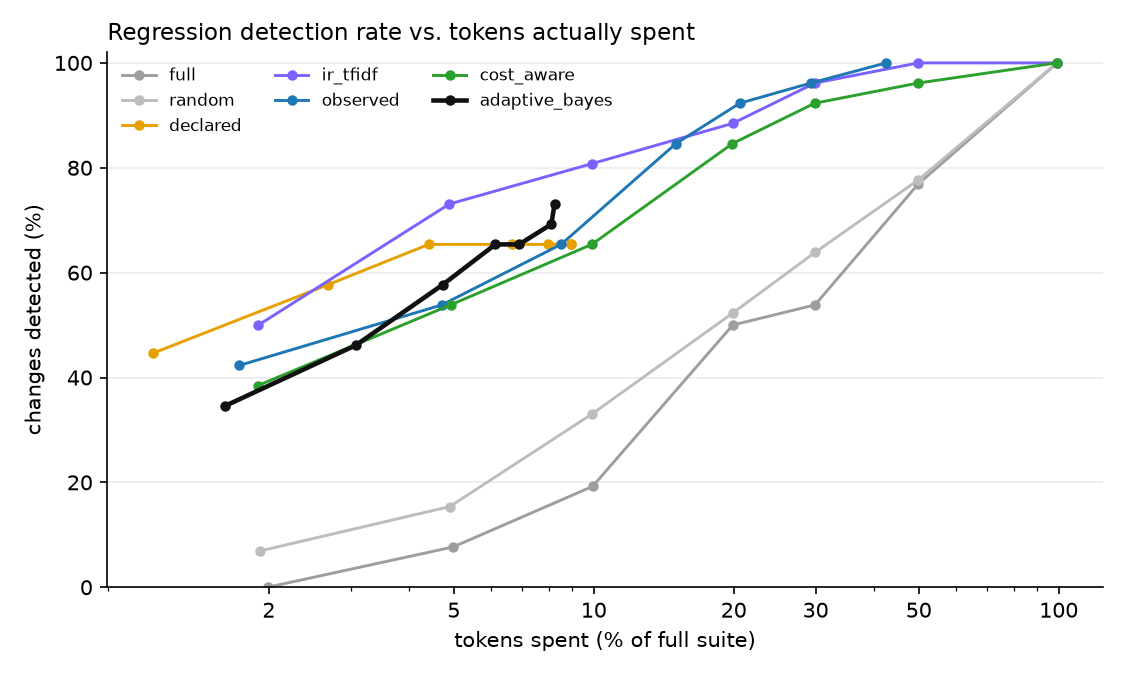
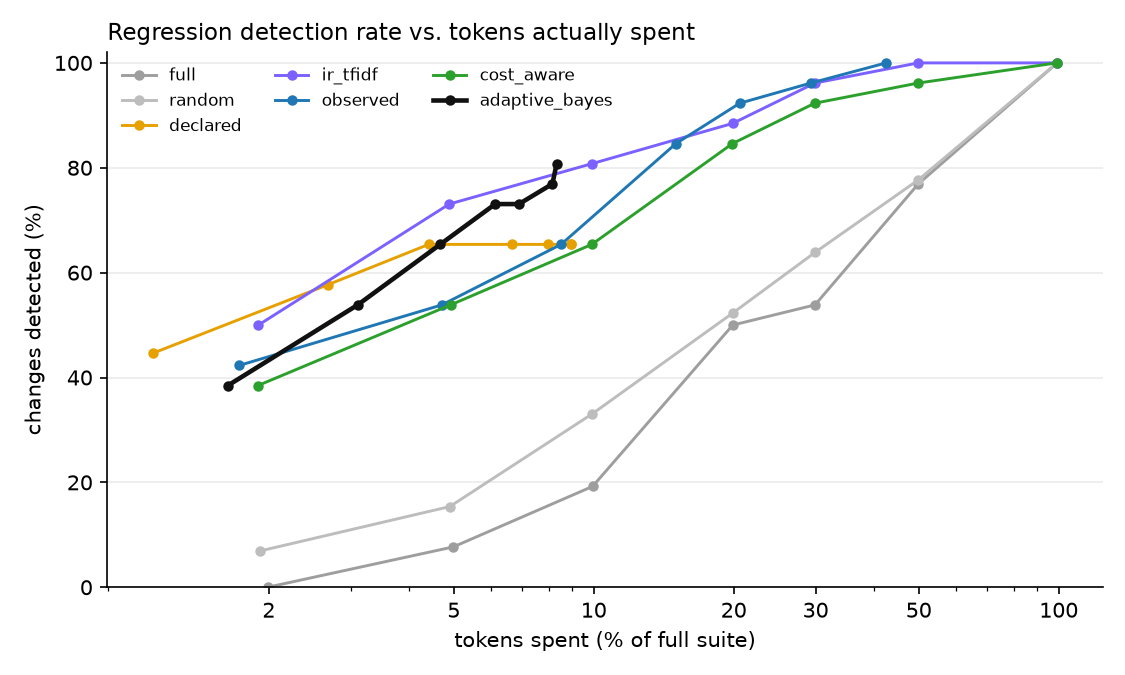
Calibration: pad kind ratios; an agent list that lost items reaches only its users
- adaptive_bayes: a kind's reveal ratio is padded toward a default for its kind
  (prior_strength changes' worth), like the test records, so one earlier change
  cannot make a whole kind look certain (agent tool lists sat at the 0.9 cap).
- changeset: when an agent's tools or skills list only loses items, the detail
  names them ("removed: tool:check_consent"); the method links the change only to
  tests that used one of them, both when choosing tests and when calibrating.
- Results at a 20% budget: 81% (Gemma) and 73% (Qwen), from 76% and 65%, at the
  same 5-6% spend; the two agent-definition changes are caught by the first
  test; still no false regression verdict. Published reports regenerated;
  README, RESEARCH_PLAN, EXPERIMENT and USER_GUIDE updated.

diff --git a/trace-eval/traceeval/selection/adaptive_bayes.py b/trace-eval/traceeval/selection/adaptive_bayes.py
@@ -6,12 +6,14 @@ In plain words
   2. For every test we estimate how likely it is to FAIL if a given component is broken ("sensitivity").
      Covering a component is weak evidence by itself, so the sensitivity is calibrated from history:
      among the tests that statically looked impacted by earlier changes of the same kind, how many
-     actually revealed the change?  That ratio is then scaled by the test's own record on earlier changes of
-     that kind that touched it: the changes it revealed over those an average impacted test would have
-     revealed.  Catching a change that broke almost everything says little; being the one test that caught a
-     subtle change says a lot.  The sensitivity is finally tilted up for tests
-     whose own text (name, request, expectations) shares vocabulary with the diff, and for tests whose
-     author declared the dependency.  How text is compared is an option (``text``): word overlap by default,
+     actually revealed the change?  A ratio learned from one or two changes stays near a default for its kind,
+     so that a single earlier change cannot make a whole kind look certain.  That ratio is then scaled by the
+     test's own record on earlier changes of that kind that touched it: the changes it revealed over those an
+     average impacted test would have revealed.  Catching a change that broke almost everything says little;
+     being the one test that caught a subtle change says a lot.  The sensitivity is finally tilted up for tests
+     whose own text (name, request, expectations) shares vocabulary with the diff, and for tests whose author
+     declared the dependency.  An agent's tool or skill list that only lost items reaches only the
+     tests that used one of them.  How text is compared is an option (``text``): word overlap by default,
      the TF-IDF similarity of the ``ir_tfidf`` strategy, or not at all (the variants registered at the end).
   3. We run the test with the best expected information per token, update the probabilities with the
      outcome, and repeat; each test runs at most once.  A test that already fails on the original app (a
@@ -65,6 +67,15 @@ def _kind_key(comp) -> str:
     return comp.kind
 
 
+def _reach(comp) -> tuple[str, ...]:
+    """The dependency ids through which a non-code component reaches a test: the items an agent's tool or skill
+    list lost, when the change set names them ("removed: tool:x"), since only the runs that used one of them can
+    notice; otherwise the component itself or its base (agent:x.tools -> agent:x)."""
+    if comp.detail.startswith("removed: "):
+        return tuple(comp.detail.split()[1:])
+    return (comp.id, comp.base)
+
+
 @register
 class AdaptiveBayes(Strategy):
     name = "adaptive_bayes"
@@ -113,7 +124,7 @@ class AdaptiveBayes(Strategy):
                     out["line"].add(t)
                 elif matches(comp, deps):
                     out["fn"].add(t)
-            elif matches(comp, deps):
+            elif any(d in deps for d in _reach(comp)):
                 out["match"].add(t)
         return out
 
@@ -154,7 +165,11 @@ class AdaptiveBayes(Strategy):
                     seen[1] += rate
         ratios = dict(DEFAULT_REVEAL)
         for k, vals in sums.items():
-            ratios[k] = max(0.01, min(0.9, sum(vals) / len(vals)))  # mean over changes, kept off 0 and 1
+            # the mean over changes, padded like the test records: a ratio learned from one or two changes stays
+            # near the default of its kind (agent.tools falls back to agent), and it is kept off 0 and 1
+            prior = DEFAULT_REVEAL.get(k, DEFAULT_REVEAL.get(k.split(".", 1)[0], 0.2))
+            mean = (sum(vals) + self.prior_strength * prior) / (len(vals) + self.prior_strength)
+            ratios[k] = max(0.01, min(0.9, mean))
         return ratios, record
 
     @staticmethod
@@ -212,10 +227,10 @@ class AdaptiveBayes(Strategy):
                 base = own("code:line", ratios["code:line"]) * max(hit)
             elif matches(comp, deps):
                 base = own("code:fn", ratios["code:fn"])
-        elif matches(comp, deps):
+        elif any(d in deps for d in _reach(comp)):
             # an agent field without training data of its own falls back to the ratio of its kind
             ratio = ratios.get(_kind_key(comp), ratios.get(comp.kind, 0.2))
-            base = own(_kind_key(comp), ratio) * max(freq[d] for d in deps if d in (comp.id, comp.base))
+            base = own(_kind_key(comp), ratio) * max(freq[d] for d in _reach(comp) if d in deps)
         if base is not None:
             return min(0.9, max(0.02, base * tilt))
         if declared:  # declared by the test's author but never observed: half the reveal ratio

diff --git a/trace-eval/traceeval/mutation/changeset.py b/trace-eval/traceeval/mutation/changeset.py
@@ -285,7 +285,14 @@ def _agent_components(rel: str, old: str, new: str) -> list[ChangedComponent]:
     for key in sorted(set(od) | set(nd)):
         if _ordered(od.get(key)) != _ordered(nd.get(key)):
             kind = "agent-prompt" if key in ("system_prompt", "description") else "agent"
-            comps.append(ChangedComponent(f"agent:{name}.{key}", kind, rel, f"{key} changed"))
+            detail = f"{key} changed"
+            if key in ("tools", "skills"):
+                # A list that only lost items affects only the runs that used one of them: name them, as the
+                # dependency ids the traces record (tool:<name>, skill:<name>).
+                old_items, new_items = set(od.get(key) or []), set(nd.get(key) or [])
+                if old_items > new_items:
+                    detail = "removed: " + " ".join(f"{key[:-1]}:{x}" for x in sorted(old_items - new_items))
+            comps.append(ChangedComponent(f"agent:{name}.{key}", kind, rel, detail))
     return comps  # empty for a comment- or format-only change
 
 

diff --git a/trace-eval/docs/RESEARCH_PLAN.md b/trace-eval/docs/RESEARCH_PLAN.md
@@ -18,14 +18,14 @@ Ciprian Păduraru · University of Bucharest · working document, 6 October 2026
   Qwen3.8-27B as a second model), 136 tests and 33 controlled changes applied as file edits (7 of them benign).
   Full-suite runs with three repetitions give the ground truth, and strategies are compared by offline replay.
 - **Results so far (§5.1).** Hand-written dependencies catch 65–71% of regressions. Trace-based selection catches
-  85–90% within a budget of 20% of the full-suite tokens. The adaptive method catches 65–76% while spending 5–6% of
+  85–90% within a budget of 20% of the full-suite tokens. The adaptive method catches 73–81% while spending 5–6% of
   those tokens, and never calls a change that breaks nothing a regression, even though Gemma fails three tests on
   the original app and the other strategies take those failures for regressions. TF-IDF over the diff is a strong
   baseline (73–81% at 5%). Change sets hold code only, so the results are the same whether or not the code is
   commented.
-- **Next.** Fold the IR signal into the model (the adaptive method still stops too early on regressions that one
-  or two tests reveal, mostly under Qwen), re-record the ground truth on the current app, then move to
-  tau2-bench as the external system under test. Real models only, decoded greedily. Paper: ASE/ISSTA/ICST framing.
+- **Next.** Re-record the ground truth on the current app with three repetitions (the adaptive method still
+  stops too early on some regressions that one or two tests reveal, mostly under Qwen), add the mandatory-safety
+  wrapper, then move to tau2-bench as the external system under test. Real models only, decoded greedily. Paper: ASE/ISSTA/ICST framing.
 
 ---
 
@@ -72,7 +72,7 @@ The extractor (`traceeval/mutation/changeset.py`) turns a diff into *components*
 | `code:<file>::<function>` + `line:<file>:<n>` | `code:harness/retry.py::with_retry`, `line:harness/retry.py:29` | AST-normalised function comparison (docstrings ignored); changed baseline code lines; an insertion anchors to the code lines around it. |
 | `tool:<name>` | `tool:set_page_metadata` | When a changed function is a registered tool adapter. |
 | `skill:<name>#procedure` / `#prose` / `#meta` | `skill:link-validation#procedure` | The machine-readable procedure block vs. instruction prose vs. front matter. |
-| `agent:<name>.<field>` | `agent:publishing.triggers`, `agent:seo.tools` | Order-sensitive comparison (intent order matters). |
+| `agent:<name>.<field>` | `agent:publishing.triggers`, `agent:seo.tools` | Order-sensitive comparison (intent order matters). A tool or skill list that only lost items names them (`removed: tool:check_consent`). |
 | `config:<dotted.key>` | `config:runtime.retries` | Effective value changes only. |
 | comments and formatting | — | Left out: comments, docstrings, blank lines, YAML comments and the order of config mappings add no component, file or diff line, so no selector or probability depends on them. The selectors read the diff of the code alone. |
 
@@ -117,9 +117,9 @@ variants of the proposed method differ only in how text is compared (§5.2): `ad
 *Likelihood.* P(t fails | B) = 1 − (1 − f_t) ∏_{c∈B} (1 − s_tc). The sensitivity s_tc of test t to component c is
 s_tc = r_kind(c) · lift_t,kind(c) · freq_t(c) · tilt_t, where
 
-- r_kind is the empirical reveal ratio learned from the other recorded changes: the fraction of statically impacted tests that actually revealed a change of that kind. Kinds separate, for example, "executed the changed line" from "executed only the changed function", and agent fields are calibrated per field. This encodes "coverage does not imply detection" with measured numbers instead of hand-set constants.
+- r_kind is the empirical reveal ratio learned from the other recorded changes: the fraction of statically impacted tests that actually revealed a change of that kind. Kinds separate, for example, "executed the changed line" from "executed only the changed function", and agent fields are calibrated per field. This encodes "coverage does not imply detection" with measured numbers instead of hand-set constants. A ratio learned from few changes is padded toward a default for its kind (m = 2 changes' worth, as below), so that one earlier change cannot make a whole kind look certain: the agent tool-list ratio came from a single change (5 of 8 tests revealed it) and, unpadded, put every test of the agent at the 0.9 cap.
 - lift_t,k = (O_tk + m) / (E_tk + m) is the test's own record on the earlier changes of kind k that impacted it: O_tk is how many of them it revealed, E_tk how many an average impacted test would have revealed (the sum of those changes' reveal rates), and m = 2 pads a short record. A test that ran many changed functions and never caught anything gets a lift below 1; one that caught changes most impacted tests missed gets a lift above 1. Comparing with E rather than counting catches matters: a change that breaks a large part of the suite (link validation turned off everywhere: 40 tests) says little about each test it breaks. Like r_kind, the records are recomputed from the recordings at every run, without the change under evaluation, so they grow as more changes are recorded (`docs/USER_GUIDE.md` §5).
-- freq_t(c) is how often t exercised c in its baseline runs.
+- freq_t(c) is how often t exercised c in its baseline runs. For an agent's tool or skill list that only lost items, it is how often t used one of the removed items: losing `check_consent` can affect only the tests that call it, not every test of the governance agent.
 - tilt_t ∈ [0.5, 2.0] combines the lexical relevance of the change text (code only, never comments) to the test's own text (name, request, expectations) with a bonus when the author declared the dependency. It is a proxy for "the test's oracle plausibly observes the changed behaviour". The relevance measure is an option (`text`): word overlap (the default), TF-IDF, or none (§5.2).
 
 *Policy.* The next test is the argmax over t of (expected information gain about B, tilted by risk) / c(t). After a pass, the sensitivities of tests with the same behaviour signature (agents, tools, fault profile, dataset) are discounted (×0.35), because near-duplicate tests are correlated evidence, not independent draws. Each test runs at most once: the models decode greedily, so a rerun gives the same answer.
@@ -201,12 +201,12 @@ actually spent. Each cell is Gemma / Qwen:
 | ir_tfidf | 0.81 / 0.73 | 0.81 / 0.81 | 0.90 / 0.88 | 1.00 / 1.00 | 1.00 / 1.00 | 0.20 / 0.20 | 0.98 / 0.99 | 0.99 / 0.99 |
 | observed | 0.52 / 0.54 | 0.62 / 0.65 | 0.90 / 0.85 | 0.95 / 0.96 | 1.00 / 1.00 | 0.15 / 0.15 | 0.46 / 0.43 | 0.23 / 0.20 |
 | cost_aware | 0.52 / 0.54 | 0.62 / 0.65 | 0.86 / 0.85 | 0.95 / 0.96 | 1.00 / 1.00 | 0.20 / 0.20 | 0.98 / 0.99 | 0.99 / 0.99 |
-| adaptive_bayes | 0.62 / 0.46 | 0.76 / 0.58 | 0.76 / 0.65 | 0.81 / 0.69 | 0.86 / 0.73 | 0.05 / 0.06 | 0.07 / 0.08 | 0.37 / 0.25 |
+| adaptive_bayes | 0.67 / 0.54 | 0.81 / 0.65 | 0.81 / 0.73 | 0.86 / 0.77 | 0.90 / 0.81 | 0.05 / 0.06 | 0.07 / 0.08 | 0.37 / 0.27 |
 
 APFD_c of the full prioritized order (Gemma / Qwen): random 0.47/0.44, full 0.55/0.58, adaptive 0.78/0.76,
 ir_tfidf 0.79/0.80, cost_aware 0.81/0.83, observed 0.82/0.83 (selection recall 1.00 at about half of the suite
 cost), declared 0.83/0.80 (selection recall 0.63/0.52). Cost to first detection: declared 0.02, ir 0.03–0.04,
-adaptive 0.04, observed 0.06, cost_aware 0.06–0.07, random 0.15–0.17 of the full suite.
+adaptive 0.03–0.04, observed 0.06, cost_aware 0.06–0.07, random 0.15–0.17 of the full suite.
 
 **Reading.**
 - *RQ1/RQ2.* Declared metadata caps detection at 71% (Gemma) and 65% (Qwen), because shared skills reached through
@@ -215,12 +215,15 @@ adaptive 0.04, observed 0.06, cost_aware 0.06–0.07, random 0.15–0.17 of the 
   under real models.
 - *RQ3.* Informed strategies raise APFD_c from about 0.45 (random) to 0.76–0.83; declared ranks well but selects
   only part of the revealing tests (selection recall 0.52–0.63), observed and cost-aware ranking select them all.
-- *RQ4.* The adaptive method again is the only one that returns budget: 76% (Gemma) and 65% (Qwen) detection for
+- *RQ4.* The adaptive method again is the only one that returns budget: 81% (Gemma) and 73% (Qwen) detection for
   5–6% of the tokens, 7–8% at full budget. It stops at the first failure of a test that passed on the original
   app, and each test's own record (§3.1) brings the revealing test forward (on the earlier set of 38 changes it
   found regressions 3–15% sooner than kind-level sensitivities). It is weaker under Qwen because Qwen reveals
   more regressions that only one or two tests catch, and on those the method stops "clean" before reaching them
-  (185 of 910 replays on regressions). The IR term inside the model (§7) is meant to address it.
+  (115 of 910 replays on regressions). Two calibration fixes (§3.1: kind ratios padded like the test records,
+  and an agent list that lost items reaching only the tests that used them) raised it from 76% and 65%; before
+  them, the two agent-definition changes ended "clean" after two passing tests at the 0.9 cap, and now the first
+  test catches them. The IR term inside the model (§7) is meant to address it.
 - *Red tests on the original app.* Gemma's three failing tests fail on every changed copy too, so a strategy that
   runs one of them sees a failure the change did not cause. On the changes that no test reveals, `full` sees such
   a failure in 71% of replays and `ir_tfidf` in 58% under Gemma (56% and 16% under Qwen). The adaptive method
@@ -237,18 +240,18 @@ recordings of the current app):
 
 | recording | overlap (default) | TF-IDF | no text | `ir_tfidf` alone |
 |---|---|---|---|---|
-| gemma2 | 0.76 (4.8%) | 0.81 (4.6%) | 0.67 (6.7%) | 0.90 (20%) |
-| qwen2 | 0.65 (6.1%) | 0.81 (5.8%) | 0.62 (6.6%) | 0.88 (20%) |
-| gemma3 | 0.76 (4.9%) | 0.81 (4.6%) | 0.67 (6.8%) | 0.90 (20%) |
-| qwen3 | 0.79 (5.0%) | 0.83 (4.6%) | 0.71 (6.2%) | 0.92 (20%) |
+| gemma2 | 0.81 (4.8%) | 0.86 (4.5%) | 0.71 (6.7%) | 0.90 (20%) |
+| qwen2 | 0.73 (6.1%) | 0.85 (5.6%) | 0.69 (6.6%) | 0.88 (20%) |
+| gemma3 | 0.81 (4.9%) | 0.86 (4.5%) | 0.71 (6.7%) | 0.90 (20%) |
+| qwen3 | 0.88 (5.0%) | 0.88 (4.4%) | 0.75 (6.2%) | 0.92 (20%) |
 
-At a 50% budget the default reaches 0.69–0.86 and the TF-IDF variant 0.81–0.90, still for under 6% of the
+At a 50% budget the default reaches 0.77–0.90 and the TF-IDF variant 0.85–0.95, still for under 6% of the
 suite. No variant gives a "regression" verdict on a change that no test reveals (0 of 1000 replays each), and
-the TF-IDF variant stops correctly most often (0.86, against 0.79 for the default and 0.73 without text).
+the TF-IDF variant stops correctly most often (0.89, against 0.84 for the default and 0.76 without text).
 
-**Reading.** On this testbed TF-IDF is the better text measure, most of all under Qwen (+16 points on `qwen2`),
+**Reading.** On this testbed TF-IDF is the better text measure, most of all under Qwen (+12 points on `qwen2`),
 where it brings forward the one test that reveals a narrow change (the approval gate, the agent loop's step
-limit). Without any text the method loses 3–10 points, so text matters, but coverage and history carry most of
+limit). Without any text the method loses 4–13 points, so text matters, but coverage and history carry most of
 the result. The testbed is textual: tests, skills and config keys share vocabulary, which favours any text
 measure (a threat noted in §8). Whether TF-IDF helps as much where tests and changes are worded differently is a
 question for tau2-bench, so the default stays word overlap and TF-IDF stays an option.
@@ -287,7 +290,9 @@ Phase 4 showed that a model's own mistakes and blind spots shape the ground trut
 
 The prototype (`traceeval check`, §6) ran live on four changes under each model, from recordings of the current app (`runs/gemma3`, `runs/qwen3`, one repetition). It caught a skill regression with its first test, called a harmless prompt rewording clean, and found nothing for a hand edit that no test covers. The weak case was the retry change: the method first spent on cheap tests that merely call the changed function, and ran out of budget undecided. That led to item 3(a), each test's own record, together with stopping at the first failure of a test that passed on the original app. Replayed on the same recordings, the retry change now ends "regression" after 17 tests (8.9% of the suite) under Gemma and 11 (5.9%) under Qwen. The new recordings also show that the ground truth moves with the app and the judge: under Qwen, three regressions revealed in `runs/qwen2` are not revealed on the current app, one because the strict model judge now fails SEO-07 on the original app.
 
-Immediate next steps, in order: overconfident sensitivities (on the two agent-definition changes, many tests reach the 0.9 cap, two of them pass, and the method stops "clean" before reaching the revealing ones); re-recording the ground truth with three repetitions on the current app with the model judge, before the paper; the mandatory-safety wrapper; the OpenAI backend once API tokens are available.
+Calibration fixes after 3(b): on the two agent-definition changes, every test of the agent reached the 0.9 sensitivity cap, and two passing tests ended the run "clean". Kind ratios are now padded like the test records, and an agent's tool or skill list that only lost items reaches only the tests that used them (§3.1). Both changes are now caught by the first test, and detection at a 20% budget rose from 76% to 81% (Gemma) and from 65% to 73% (Qwen) at the same spend.
+
+Immediate next steps, in order: re-recording the ground truth with three repetitions on the current app with the model judge, before the paper; the mandatory-safety wrapper; the OpenAI backend once API tokens are available.
 
 ---
 
@@ -295,7 +300,7 @@ Immediate next steps, in order: overconfident sensitivities (on the two agent-de
 
 **Working title.** TRACE-Eval: change-aware, cost-bounded regression test selection for LLM agent systems.
 
-**Abstract (draft).** Agent platforms ship dozens of agents assembled from skills, prompts, tools, harness code and configuration, and verify them with tests and statistical evals whose cost is dominated by tokens. After a change, teams either re-run everything or guess. We formulate selection, prioritization and budget-aware stopping of agent tests as one problem and propose a method that (i) extracts a change set from the diff at the granularity of code lines, skill procedures, agent-definition fields and configuration keys, (ii) maps it to tests through dependencies *observed* in execution traces rather than declared metadata, (iii) ranks tests by expected information per token in a Bayesian model whose sensitivities are calibrated from history, and (iv) stops when the posterior probability of a regression is low. We evaluate on a testbed with a working multi-agent application whose agents are played by two open models (a small and a mid-size one), 136 tests/eval items, and 33 controlled changes with a mutation-based ground truth derived per model. Declared dependencies miss 29–35% of the regressions; trace-informed selection finds 85–90% of them within 20% of the full-suite tokens. The adaptive method detects 65–76% for 5–6% of the tokens, returns most of the budget on benign changes, and, unlike the other strategies, does not mistake the tests the model already fails for regressions.
+**Abstract (draft).** Agent platforms ship dozens of agents assembled from skills, prompts, tools, harness code and configuration, and verify them with tests and statistical evals whose cost is dominated by tokens. After a change, teams either re-run everything or guess. We formulate selection, prioritization and budget-aware stopping of agent tests as one problem and propose a method that (i) extracts a change set from the diff at the granularity of code lines, skill procedures, agent-definition fields and configuration keys, (ii) maps it to tests through dependencies *observed* in execution traces rather than declared metadata, (iii) ranks tests by expected information per token in a Bayesian model whose sensitivities are calibrated from history, and (iv) stops when the posterior probability of a regression is low. We evaluate on a testbed with a working multi-agent application whose agents are played by two open models (a small and a mid-size one), 136 tests/eval items, and 33 controlled changes with a mutation-based ground truth derived per model. Declared dependencies miss 29–35% of the regressions; trace-informed selection finds 85–90% of them within 20% of the full-suite tokens. The adaptive method detects 73–81% for 5–6% of the tokens, returns most of the budget on benign changes, and, unlike the other strategies, does not mistake the tests the model already fails for regressions.
 
 **Outline.** 1 Introduction (motivation from AEM-scale platforms; nightly batch + PR use; three sub-problems) · 2 Background and related work (RTS/TCP; efficient LLM evaluation; agent benchmarks; fault injection; CASPER as closest work) · 3 Problem formulation and models (§1–2) · 4 Method (§3.1) · 5 Testbed (§4) · 6 Evaluation (RQ1–RQ4 + ablations + LLM/tau2 external validity) · 7 Threats to validity (synthetic mutants vs. real regressions; two models, greedy decoding, and a ground truth that depends on the model; single primary domain; calibration leakage controlled by leave-one-change-out; textual testbed favouring IR) · 8 Conclusion.
 

diff --git a/trace-eval/docs/USER_GUIDE.md b/trace-eval/docs/USER_GUIDE.md
@@ -71,9 +71,9 @@ of `runs/gemma3`:
 
 | factor | what it is | example |
 |---|---|---|
-| kind ratio | of the tests that earlier changes of this kind touched, the fraction that caught the change, averaged over the other recorded changes | for a code change, tests that ran a changed line caught it 12% of the time on average: 6 of the 10 tests that ran the changed line of the link check caught `code_links_external_lenient`, but only 2 of the 136 that ran the changed line of the agent loop caught `code_termination_off_by_six`. Tests that only called a changed function, without running the changed line, caught nothing (the 1% floor) |
+| kind ratio | of the tests that earlier changes of this kind touched, the fraction that caught the change, averaged over the other recorded changes | for a code change, tests that ran a changed line caught it 12% of the time on average: 6 of the 10 tests that ran the changed line of the link check caught `code_links_external_lenient`, but only 2 of the 136 that ran the changed line of the agent loop caught `code_termination_off_by_six`. Tests that only called a changed function, without running the changed line, caught nothing (the 1% floor). A ratio learned from one or two changes is padded with 2 changes' worth of a default for its kind, so it stays near that default |
 | test record | the earlier changes of this kind that touched the test and that it caught, over the number an average touched test would have caught, both padded with 2 (`prior_strength`) | AUT-02 caught 3 where an average test would have caught 1.02: (3 + 2) / (1.02 + 2) = 1.66. AUT-13 caught none of an expected 1.02: (0 + 2) / (1.02 + 2) = 0.66 |
-| coverage | how often the test ran the changed code in its runs on the original app, from 0 to 1 | PUB-12 runs the changed line of `harness/retry.py` in every run: 1.0 |
+| coverage | how often the test ran the changed code in its runs on the original app, from 0 to 1. When an agent loses a tool or a skill, how often the test used that tool or skill: the other tests of that agent cannot notice | PUB-12 runs the changed line of `harness/retry.py` in every run: 1.0 |
 | tilt | text similarity between the test and the diff (0.5 to 1.5), plus 0.5 if the test's author declared the dependency. The similarity is word overlap by default; `adaptive_bayes_tfidf` uses TF-IDF instead and `adaptive_bayes_notext` no text at all (`--strategies adaptive_bayes adaptive_bayes_tfidf adaptive_bayes_notext` compares them; RESEARCH_PLAN §5.2) | a test whose request mentions publishing gets more weight for a change to the publishing skill |
 
 A test with no known link to the changed part gets a small fixed sensitivity (`indirect`, 0.02).

diff --git a/trace-eval/docs/results/qwen2/report.md b/trace-eval/docs/results/qwen2/report.md
@@ -54,7 +54,7 @@ Fraction of regression-inducing changes detected, by nominal budget (% of full-s
 | ir_tfidf | 0.50 | 0.73 | 0.81 | 0.88 | 0.96 | 1.00 | 1.00 |
 | observed | 0.42 | 0.54 | 0.65 | 0.85 | 0.92 | 0.96 | 1.00 |
 | cost_aware | 0.38 | 0.54 | 0.65 | 0.85 | 0.92 | 0.96 | 1.00 |
-| adaptive_bayes | 0.35 | 0.46 | 0.58 | 0.65 | 0.65 | 0.69 | 0.73 |
+| adaptive_bayes | 0.38 | 0.54 | 0.65 | 0.73 | 0.73 | 0.77 | 0.81 |
 
 Tokens actually spent on those changes (fraction of the full suite):
 
@@ -66,7 +66,7 @@ Tokens actually spent on those changes (fraction of the full suite):
 | ir_tfidf | 0.019 | 0.049 | 0.099 | 0.199 | 0.299 | 0.499 | 0.990 |
 | observed | 0.017 | 0.047 | 0.085 | 0.150 | 0.206 | 0.293 | 0.425 |
 | cost_aware | 0.019 | 0.049 | 0.099 | 0.199 | 0.299 | 0.498 | 0.990 |
-| adaptive_bayes | 0.016 | 0.031 | 0.047 | 0.061 | 0.069 | 0.081 | 0.082 |
+| adaptive_bayes | 0.016 | 0.031 | 0.047 | 0.061 | 0.069 | 0.081 | 0.083 |
 
 ![detection vs cost](figures/detection_vs_cost.png)
 
@@ -80,7 +80,7 @@ Cost until the first true detection (fraction of the full suite, detected cases 
 | ir_tfidf | 0.041 |
 | observed | 0.059 |
 | cost_aware | 0.061 |
-| adaptive_bayes | 0.045 |
+| adaptive_bayes | 0.042 |
 
 ## 3. Benign changes — wasted budget and stopping
 
@@ -92,7 +92,7 @@ Cost until the first true detection (fraction of the full suite, detected cases 
 | ir_tfidf | 0.019 | 0.049 | 0.098 | 0.198 | 0.298 | 0.498 | 0.995 |
 | observed | 0.011 | 0.033 | 0.056 | 0.090 | 0.120 | 0.154 | 0.196 |
 | cost_aware | 0.019 | 0.049 | 0.099 | 0.199 | 0.299 | 0.498 | 0.989 |
-| adaptive_bayes | 0.014 | 0.027 | 0.048 | 0.084 | 0.113 | 0.170 | 0.251 |
+| adaptive_bayes | 0.014 | 0.029 | 0.050 | 0.086 | 0.115 | 0.172 | 0.270 |
 
 ![benign waste](figures/benign_waste.png)
 
@@ -100,8 +100,8 @@ Stop reasons of `adaptive_bayes` (rows: is the change a regression?):
 
 | is_regression | budget | clean | no_components | regression | uninformative |
 |---|---|---|---|---|---|
-| False | 75 | 95 | 70 | 0 | 5 |
-| True | 190 | 185 | 0 | 535 | 0 |
+| False | 79 | 90 | 70 | 0 | 6 |
+| True | 195 | 115 | 0 | 600 | 0 |
 
 ## 4. Prioritization and selection quality
 
@@ -115,7 +115,7 @@ APFD / cost-cognizant APFD of the complete order; selection recall = revealing t
 | ir_tfidf | 0.788 | 0.799 | 1.000 | 1.000 |
 | observed | 0.814 | 0.834 | 1.000 | 0.430 |
 | cost_aware | 0.813 | 0.833 | 1.000 | 1.000 |
-| adaptive_bayes | 0.787 | 0.760 | 1.000 | 1.000 |
+| adaptive_bayes | 0.785 | 0.756 | 1.000 | 1.000 |
 
 ![apfdc](figures/apfdc.png)
 

diff --git a/trace-eval/docs/results/gemma2/report.md b/trace-eval/docs/results/gemma2/report.md
@@ -54,7 +54,7 @@ Fraction of regression-inducing changes detected, by nominal budget (% of full-s
 | ir_tfidf | 0.62 | 0.81 | 0.81 | 0.90 | 1.00 | 1.00 | 1.00 |
 | observed | 0.43 | 0.52 | 0.62 | 0.90 | 0.90 | 0.95 | 1.00 |
 | cost_aware | 0.33 | 0.52 | 0.62 | 0.86 | 0.90 | 0.95 | 1.00 |
-| adaptive_bayes | 0.48 | 0.62 | 0.76 | 0.76 | 0.81 | 0.81 | 0.86 |
+| adaptive_bayes | 0.52 | 0.67 | 0.81 | 0.81 | 0.86 | 0.86 | 0.90 |
 
 Tokens actually spent on those changes (fraction of the full suite):
 
@@ -66,7 +66,7 @@ Tokens actually spent on those changes (fraction of the full suite):
 | ir_tfidf | 0.019 | 0.049 | 0.099 | 0.199 | 0.299 | 0.499 | 0.979 |
 | observed | 0.017 | 0.046 | 0.082 | 0.148 | 0.208 | 0.303 | 0.459 |
 | cost_aware | 0.019 | 0.049 | 0.099 | 0.199 | 0.299 | 0.498 | 0.979 |
-| adaptive_bayes | 0.015 | 0.027 | 0.037 | 0.048 | 0.054 | 0.064 | 0.073 |
+| adaptive_bayes | 0.015 | 0.027 | 0.037 | 0.048 | 0.054 | 0.063 | 0.072 |
 
 ![detection vs cost](figures/detection_vs_cost.png)
 
@@ -80,7 +80,7 @@ Cost until the first true detection (fraction of the full suite, detected cases 
 | ir_tfidf | 0.033 |
 | observed | 0.060 |
 | cost_aware | 0.066 |
-| adaptive_bayes | 0.035 |
+| adaptive_bayes | 0.034 |
 
 ## 3. Benign changes — wasted budget and stopping
 
@@ -92,7 +92,7 @@ Cost until the first true detection (fraction of the full suite, detected cases 
 | ir_tfidf | 0.019 | 0.049 | 0.099 | 0.199 | 0.298 | 0.499 | 0.993 |
 | observed | 0.013 | 0.039 | 0.070 | 0.115 | 0.152 | 0.194 | 0.231 |
 | cost_aware | 0.019 | 0.049 | 0.099 | 0.199 | 0.299 | 0.499 | 0.989 |
-| adaptive_bayes | 0.016 | 0.036 | 0.068 | 0.121 | 0.171 | 0.256 | 0.371 |
+| adaptive_bayes | 0.016 | 0.037 | 0.069 | 0.122 | 0.172 | 0.257 | 0.368 |
 
 ![benign waste](figures/benign_waste.png)
 
@@ -101,7 +101,7 @@ Stop reasons of `adaptive_bayes` (rows: is the change a regression?):
 | is_regression | budget | clean | no_components | regression | uninformative |
 |---|---|---|---|---|---|
 | False | 205 | 130 | 70 | 0 | 15 |
-| True | 115 | 85 | 0 | 535 | 0 |
+| True | 115 | 50 | 0 | 570 | 0 |
 
 ## 4. Prioritization and selection quality
 
@@ -115,7 +115,7 @@ APFD / cost-cognizant APFD of the complete order; selection recall = revealing t
 | ir_tfidf | 0.781 | 0.790 | 1.000 | 1.000 |
 | observed | 0.784 | 0.816 | 1.000 | 0.473 |
 | cost_aware | 0.779 | 0.809 | 1.000 | 1.000 |
-| adaptive_bayes | 0.802 | 0.782 | 1.000 | 1.000 |
+| adaptive_bayes | 0.801 | 0.778 | 1.000 | 1.000 |
 
 ![apfdc](figures/apfdc.png)
 

diff --git a/trace-eval/docs/EXPERIMENT.md b/trace-eval/docs/EXPERIMENT.md
@@ -569,12 +569,12 @@ changes and a handful of tests flip once. The majority vote absorbs all of it.
 | `declared` (hand-written dependencies) | 71% | 65% |
 | `observed` (dependencies from traces) | 90% | 85% |
 | `ir_tfidf` (text similarity to the diff) | 90% | 88% |
-| `adaptive_bayes` (spending) | 76% (5%) | 65% (6%) |
+| `adaptive_bayes` (spending) | 81% (5%) | 73% (6%) |
 
 - **The main claim holds under real models.** Hand-written dependencies stay at 65–71%, and traces recover most
   of the rest.
 - **The adaptive method is weaker under Qwen.** On regressions that only one or two tests reveal, it stops with
-  "clean" before reaching them (185 of 910 replays). Each test's own record is now part of the method (see
+  "clean" before reaching them (115 of 910 replays). Each test's own record is now part of the method (see
   USER_GUIDE.md §5); the text-similarity signal inside the model is the next planned improvement.
 - **Tests that are red on the original app cost the other strategies dearly.** Gemma's three failing tests fail
   on every changed copy, so a strategy that runs one of them sees a failure the change did not cause. On the

diff --git a/trace-eval/README.md b/trace-eval/README.md
@@ -61,7 +61,7 @@ what each test costs and which code it runs.
 
 Main results, with Gemma and with Qwen3.8-27B playing the agents (three repetitions per test): hand-written
 dependencies catch 65–71% of regressions. Trace-based selection catches 85–90% within a budget of 20% of the
-full-suite tokens. The adaptive method catches 65–76% while spending 5–6% of those tokens, and never calls a
+full-suite tokens. The adaptive method catches 73–81% while spending 5–6% of those tokens, and never calls a
 change that breaks nothing a regression. Gemma misses five of the 26 regressions, because it ignores the guards
 they touch either way; Qwen reveals all 26. See the [Gemma](docs/results/gemma2/report.md) and
 [Qwen](docs/results/qwen2/report.md) reports and [docs/EXPERIMENT.md](docs/EXPERIMENT.md).
